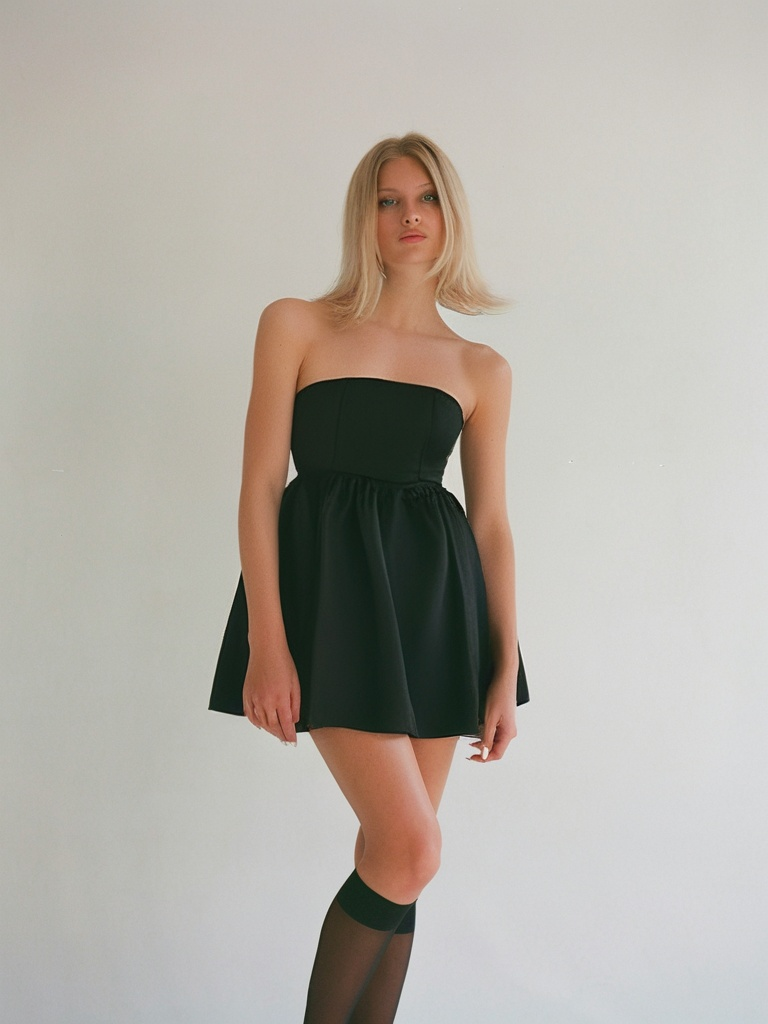
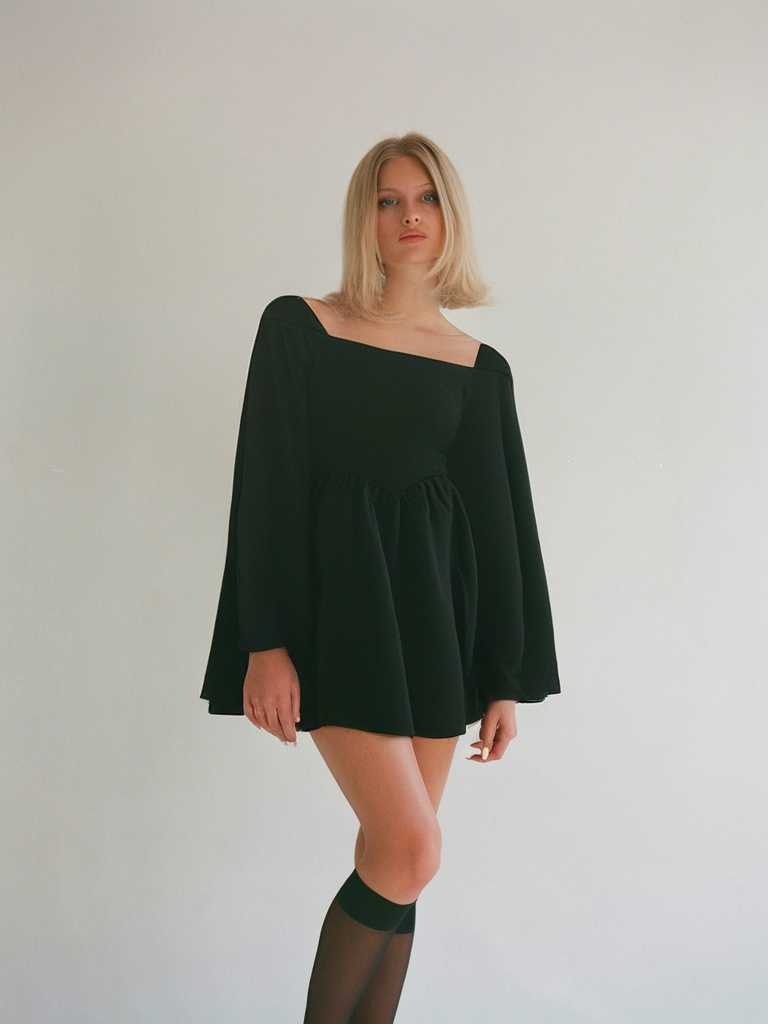
Update virtual try-on pipeline and dataset

Changed region(s): [[0.25, 0.25, 0.75, 0.75], [0.375, 0.6875, 0.4062, 0.7188]]

diff --git a/test_remote_tryon.py b/test_remote_tryon.py
@@ -1,12 +1,140 @@
+import os
 import cv2
+import numpy as np
 from tryon.idm_vton_remote import run_tryon
 
-person = cv2.imread("persons/person7.jpg")
-result = run_tryon(
-    person_image=person,
-    garment_image_path="garments/763875967bc787c5b8c8162eb7af0959.jpg",
-    garment_description="a pink knit sweater and wide-leg pink pants",
-    num_inference_steps=20,  # كان 30
-)
-cv2.imwrite("result.jpg", result)
-print("خلص -- شوفي result.jpg")
+PERSONS_DIR = "images/persons"
+GARMENTS_DIR = "images/garments"
+RESULTS_DIR = "results"
+CROPS_DIR = "garment_crops"
+os.makedirs(RESULTS_DIR, exist_ok=True)
+os.makedirs(CROPS_DIR, exist_ok=True)
+
+
+def split_garment_top_bottom(garment_path, top_ratio=0.55):
+    """يقص صورة الطقم لجزء فوقاني وتحتاني تقريبيًا حسب top_ratio."""
+    img = cv2.imread(garment_path)
+    if img is None:
+        raise ValueError(f"فشل تحميل: {garment_path}")
+    h, w = img.shape[:2]
+    split_y = int(h * top_ratio)
+    top_crop = img[0:split_y, 0:w]
+    bottom_crop = img[split_y:h, 0:w]
+    base = os.path.splitext(os.path.basename(garment_path))[0]
+    top_path = os.path.join(CROPS_DIR, f"{base}_top.jpg")
+    bottom_path = os.path.join(CROPS_DIR, f"{base}_bottom.jpg")
+    cv2.imwrite(top_path, top_crop)
+    cv2.imwrite(bottom_path, bottom_crop)
+    return top_path, bottom_path
+
+
+def run_single_garment(person_img, garment_path, desc, steps=20):
+    """قطعة واحدة بس (فستان أو توب لوحده) — طلب واحد."""
+    return run_tryon(
+        person_image=person_img,
+        garment_image_path=garment_path,
+        garment_description=desc,
+        num_inference_steps=steps,
+    )
+
+
+def run_full_outfit(person_img, garment_path, top_desc, bottom_desc, top_ratio=0.55, steps=20):
+    """فوق وتحت — طلبين متسلسلين، التاني بياخد نتيجة الأول."""
+    top_path, bottom_path = split_garment_top_bottom(garment_path, top_ratio)
+    step1 = run_tryon(
+        person_image=person_img,
+        garment_image_path=top_path,
+        garment_description=top_desc,
+        num_inference_steps=steps,
+    )
+    step2 = run_tryon(
+        person_image=step1,
+        garment_image_path=bottom_path,
+        garment_description=bottom_desc,
+        num_inference_steps=steps,
+    )
+    return step2
+
+
+# --------------------------------------------------------------------
+# الماتشينج الكامل: mode="single" لقطعة واحدة (فستان/توب لوحده)
+#                    mode="split" لطقم فوق+تحت
+# top_ratio اتحطت تقريبية، اتأكدي منها بعد أول تشغيل وعدّليها لو محتاج
+# --------------------------------------------------------------------
+pairs = [
+    # ---------------- بنات ----------------
+    {"person": "person1.jpg",  "garment": "photo.jpg",   "mode": "single",
+     "desc": "black long dress"},
+    {"person": "person3.jpg",  "garment": "photo3.jpg",  "mode": "split",
+     "top_desc": "cream top", "bottom_desc": "brown pleated skirt", "top_ratio": 0.5},
+    {"person": "person5.jpg",  "garment": "photo4.jpg",  "mode": "split",
+     "top_desc": "cami top", "bottom_desc": "dark skirt", "top_ratio": 0.5},
+    {"person": "person6.jpg",  "garment": "photo5.jpg",  "mode": "single",
+     "desc": "dark brown long dress"},
+    {"person": "person7.jpg",  "garment": "photo6.jpg",  "mode": "split",
+     "top_desc": "black top", "bottom_desc": "black skirt", "top_ratio": 0.5},
+    {"person": "person8.jpg",  "garment": "photo7.jpg",  "mode": "split",
+     "top_desc": "plaid top", "bottom_desc": "plaid skirt", "top_ratio": 0.5},
+    {"person": "person9.jpg",  "garment": "photo8.jpg",  "mode": "single",
+     "desc": "brown blazer dress"},
+    {"person": "person12.jpg", "garment": "photo9.jpg",  "mode": "split",
+     "top_desc": "green cardigan", "bottom_desc": "green wide-leg pants", "top_ratio": 0.5},
+    {"person": "person13.jpg", "garment": "photo10.jpg", "mode": "single",
+     "desc": "cream cardigan"},
+    {"person": "person16.jpg", "garment": "photo11.jpg", "mode": "split",
+     "top_desc": "brown coat", "bottom_desc": "brown skirt", "top_ratio": 0.55},
+    {"person": "person17.jpg", "garment": "photo13.jpg", "mode": "single",
+     "desc": "blush pink robe-style top"},
+    {"person": "person18.jpg", "garment": "photo14.jpg", "mode": "single",
+     "desc": "cream dress with pink sash"},
+    {"person": "person20.jpg", "garment": "photo15.jpg", "mode": "single",
+     "desc": "light blue long dress"},
+
+    # ---------------- ولاد ----------------
+    {"person": "person11.jpg", "garment": "photo1.jpg",  "mode": "split",
+     "top_desc": "black jacket", "bottom_desc": "black pants", "top_ratio": 0.45},
+    {"person": "person14.jpg", "garment": "photo2.jpg",  "mode": "single",
+     "desc": "long light-colored outfit"},
+    {"person": "person15.jpg", "garment": "photo12.jpg", "mode": "split",
+     "top_desc": "beige sweater", "bottom_desc": "beige pants", "top_ratio": 0.5},
+]
+
+for pair in pairs:
+    person_path = os.path.join(PERSONS_DIR, pair["person"])
+    garment_path = os.path.join(GARMENTS_DIR, pair["garment"])
+
+    if not os.path.exists(person_path):
+        print(f"⚠ الشخص مش موجود: {person_path}")
+        continue
+    if not os.path.exists(garment_path):
+        print(f"⚠ القطعة مش موجودة: {garment_path}")
+        continue
+
+    person_img = cv2.imread(person_path)
+    if person_img is None:
+        print(f"⚠ فشل تحميل: {pair['person']}")
+        continue
+
+    print(f"جاري: {pair['person']} + {pair['garment']} ({pair['mode']}) ...")
+    try:
+        if pair["mode"] == "single":
+            result = run_single_garment(person_img, garment_path, pair["desc"])
+        else:
+            result = run_full_outfit(
+                person_img, garment_path,
+                pair["top_desc"], pair["bottom_desc"],
+                top_ratio=pair.get("top_ratio", 0.55),
+            )
+    except Exception as e:
+        print(f"❌ فشل {pair['person']}: {e}")
+        continue
+
+    if result is None:
+        print(f"⚠ result فاضي لـ {pair['person']}")
+        continue
+
+    out_path = os.path.join(RESULTS_DIR, f"result_{os.path.splitext(pair['person'])[0]}.jpg")
+    cv2.imwrite(out_path, result)
+    print(f"✅ اتحفظت: {out_path}")
+
+print("خلصت كل الأشخاص — شوفي فولدر results")
